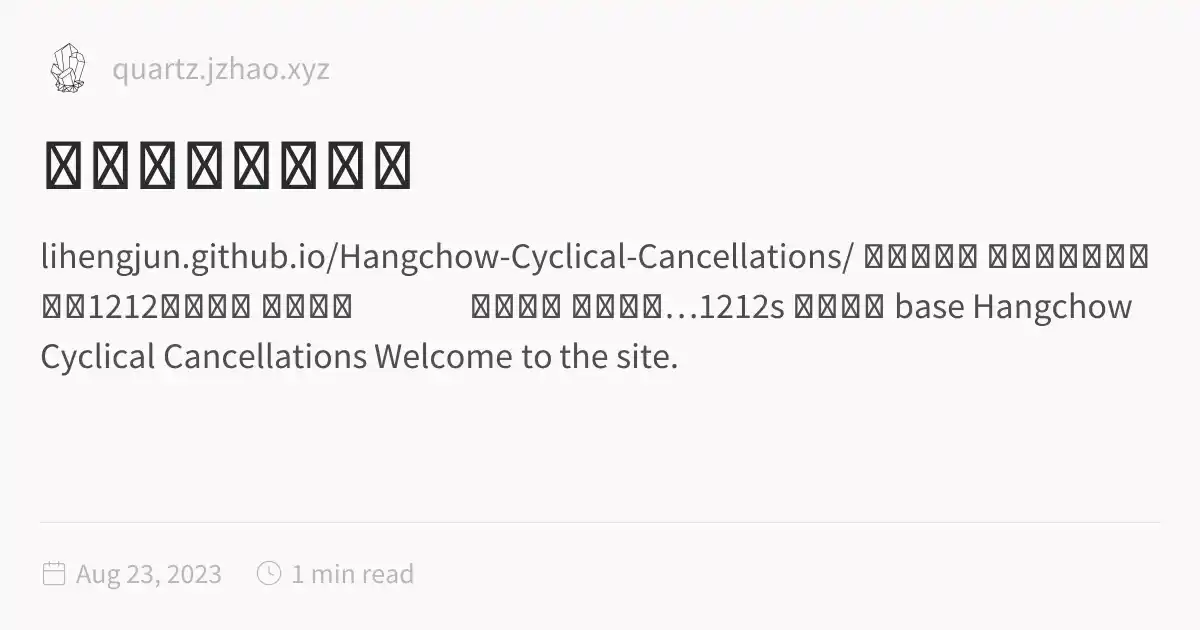
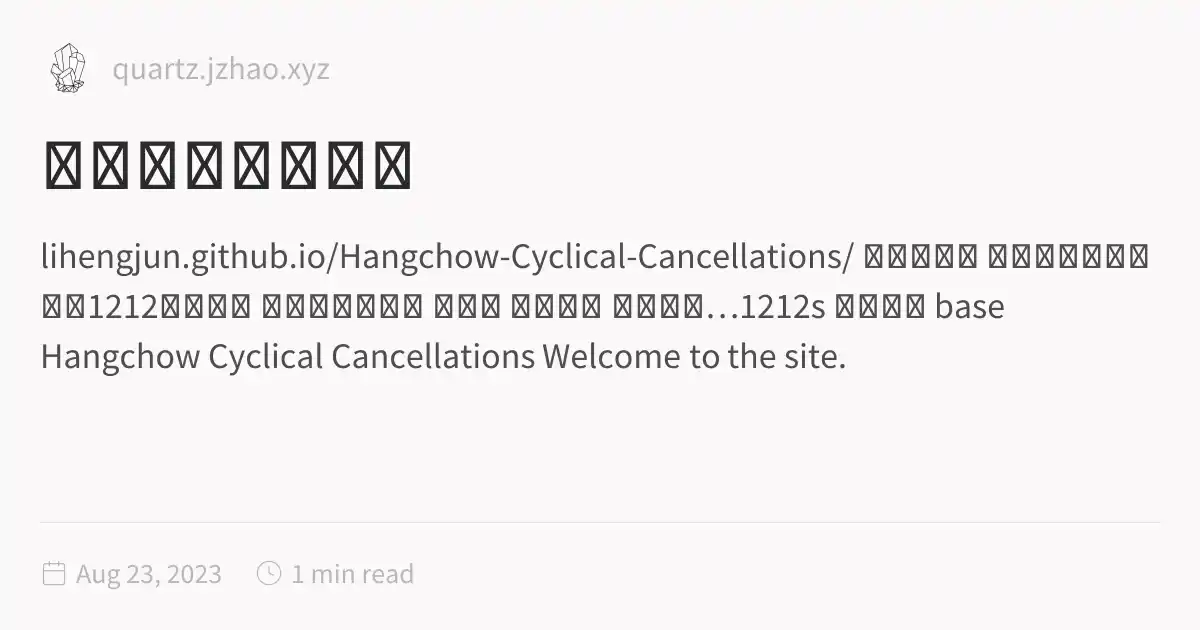
deploy: lihengjun/my-obsidian-vault@a98565e01732b8366b7636af197d75389feca38c

Changed region(s): [[0.0308, 0.5429, 0.7092, 0.6032], [0.2775, 0.4524, 0.9558, 0.5127]]

diff --git a/news/index.html b/news/index.html
@@ -116,6 +116,6 @@ pre:hover > .expand-button {
   padding: 0 12px;
   font-size: 14px;
 }
[2 lines of base64/hex data omitted]
 </script><script type="module">function f(i,e){if(!i)return;function r(o){o.target===this&&(o.preventDefault(),o.stopPropagation(),e())}function t(o){o.key.startsWith("Esc")&&(o.preventDefault(),e())}i?.addEventListener("click",r),window.addCleanup(()=>i?.removeEventListener("click",r)),document.addEventListener("keydown",t),window.addCleanup(()=>document.removeEventListener("keydown",t))}function y(i){for(;i.firstChild;)i.removeChild(i.firstChild)}var h=class{constructor(e,r){this.container=e;this.content=r;this.setupEventListeners(),this.setupNavigationControls(),this.resetTransform()}isDragging=!1;startPan={x:0,y:0};currentPan={x:0,y:0};scale=1;MIN_SCALE=.5;MAX_SCALE=3;cleanups=[];setupEventListeners(){let e=this.onMouseDown.bind(this),r=this.onMouseMove.bind(this),t=this.onMouseUp.bind(this),o=this.resetTransform.bind(this);this.container.addEventListener("mousedown",e),document.addEventListener("mousemove",r),document.addEventListener("mouseup",t),window.addEventListener("resize",o),this.cleanups.push(()=>this.container.removeEventListener("mousedown",e),()=>document.removeEventListener("mousemove",r),()=>document.removeEventListener("mouseup",t),()=>window.removeEventListener("resize",o))}cleanup(){for(let e of this.cleanups)e()}setupNavigationControls(){let e=document.createElement("div");e.className="mermaid-controls";let r=this.createButton("+",()=>this.zoom(.1)),t=this.createButton("-",()=>this.zoom(-.1)),o=this.createButton("Reset",()=>this.resetTransform());e.appendChild(t),e.appendChild(o),e.appendChild(r),this.container.appendChild(e)}createButton(e,r){let t=document.createElement("button");return t.textContent=e,t.className="mermaid-control-button",t.addEventListener("click",r),window.addCleanup(()=>t.removeEventListener("click",r)),t}onMouseDown(e){e.button===0&&(this.isDragging=!0,this.startPan={x:e.clientX-this.currentPan.x,y:e.clientY-this.currentPan.y},this.container.style.cursor="grabbing")}onMouseMove(e){this.isDragging&&(e.preventDefault(),this.currentPan={x:e.clientX-this.startPan.x,y:e.clientY-this.startPan.y},this.updateTransform())}onMouseUp(){this.isDragging=!1,this.container.style.cursor="grab"}zoom(e){let r=Math.min(Math.max(this.scale+e,this.MIN_SCALE),this.MAX_SCALE),t=this.content.getBoundingClientRect(),o=t.width/2,n=t.height/2,c=r-this.scale;this.currentPan.x-=o*c,this.currentPan.y-=n*c,this.scale=r,this.updateTransform()}updateTransform(){this.content.style.transform=`translate(${this.currentPan.x}px, ${this.currentPan.y}px) scale(${this.scale})`}resetTransform(){this.scale=1;let e=this.content.querySelector("svg");this.currentPan={x:e.getBoundingClientRect().width/2,y:e.getBoundingClientRect().height/2},this.updateTransform()}},C=["--secondary","--tertiary","--gray","--light","--lightgray","--highlight","--dark","--darkgray","--codeFont"],E;document.addEventListener("nav",async()=>{let e=document.querySelector(".center").querySelectorAll("code.mermaid");if(e.length===0)return;E||=await import("https://cdnjs.cloudflare.com/ajax/libs/mermaid/11.4.0/mermaid.esm.min.mjs");let r=E.default,t=new WeakMap;for(let n of e)t.set(n,n.innerText);async function o(){for(let s of e){s.removeAttribute("data-processed");let a=t.get(s);a&&(s.innerHTML=a)}let n=C.reduce((s,a)=>(s[a]=window.getComputedStyle(document.documentElement).getPropertyValue(a),s),{}),c=document.documentElement.getAttribute("saved-theme")==="dark";r.initialize({startOnLoad:!1,securityLevel:"loose",theme:c?"dark":"base",themeVariables:{fontFamily:n["--codeFont"],primaryColor:n["--light"],primaryTextColor:n["--darkgray"],primaryBorderColor:n["--tertiary"],lineColor:n["--darkgray"],secondaryColor:n["--secondary"],tertiaryColor:n["--tertiary"],clusterBkg:n["--light"],edgeLabelBackground:n["--highlight"]}}),await r.run({nodes:e})}await o(),document.addEventListener("themechange",o),window.addCleanup(()=>document.removeEventListener("themechange",o));for(let n=0;n<e.length;n++){let v=function(){let g=l.querySelector("#mermaid-space"),m=l.querySelector(".mermaid-content");if(!m)return;y(m);let w=c.querySelector("svg").cloneNode(!0);m.appendChild(w),l.classList.add("active"),g.style.cursor="grab",u=new h(g,m)},M=function(){l.classList.remove("active"),u?.cleanup(),u=null},c=e[n],s=c.parentElement,a=s.querySelector(".clipboard-button"),d=s.querySelector(".expand-button"),p=window.getComputedStyle(a),L=a.offsetWidth+parseFloat(p.marginLeft||"0")+parseFloat(p.marginRight||"0");d.style.right=`calc(${L}px + 0.3rem)`,s.prepend(d);let l=s.querySelector("#mermaid-container");if(!l)return;let u=null;d.addEventListener("click",v),f(l,M),window.addCleanup(()=>{u?.cleanup(),d.removeEventListener("click",v)})}});
 </script><script src="https://cdn.jsdelivr.net/npm/katex@0.16.11/dist/contrib/copy-tex.min.js" type="application/javascript"></script><script src="../postscript.js" type="module"></script></html>

diff --git a/other.html b/other.html
@@ -116,7 +116,7 @@ pre:hover > .expand-button {
   padding: 0 12px;
   font-size: 14px;
 }
[2 lines of base64/hex data omitted]
                 s-3.542,0.634-4.898,1.688l-7.669-7.669C16.785,10.424,17,9.74,17,9c0-2.206-1.794-4-4-4S9,6.794,9,9s1.794,4,4,4
                 c0.74,0,1.424-0.215,2.019-0.567l7.669,7.669C21.634,21.458,21,23.154,21,25s0.634,3.542,1.688,4.897L10.024,42.562
                 C8.958,41.595,7.549,41,6,41c-3.309,0-6,2.691-6,6s2.691,6,6,6s6-2.691,6-6c0-1.035-0.263-2.009-0.726-2.86l12.829-12.829

diff --git a/index.html b/index.html
@@ -1,5 +1,5 @@
 <!DOCTYPE html>
-<html lang="en"><head><title>杭州城幹支戳蓃集</title><meta charset="utf-8"/><link rel="preconnect" href="https://fonts.googleapis.com"/><link rel="preconnect" href="https://fonts.gstatic.com"/><link rel="stylesheet" href="https://fonts.googleapis.com/css2?family=Schibsted Grotesk:wght@400;700&amp;family=Source Sans Pro:ital,wght@0,400;0,600;1,400;1,600&amp;family=IBM Plex Mono:wght@400;600&amp;display=swap"/><link rel="preconnect" href="https://cdnjs.cloudflare.com" crossorigin="anonymous"/><meta name="viewport" content="width=device-width, initial-scale=1.0"/><meta name="og:site_name" content="Quartz 4"/><meta property="og:title" content="杭州城幹支戳蓃集"/><meta property="og:type" content="website"/><meta name="twitter:card" content="summary_large_image"/><meta name="twitter:title" content="杭州城幹支戳蓃集"/><meta name="twitter:description" content="lihengjun.github.io/Hangchow-Cyclical-Cancellations/ 天涯浮生录 哈哈哈哈哈哈哈哈哈1212手机编辑 立马删除！！！ 内容标题 你的内容…1212s 编辑内容 base Hangchow Cyclical Cancellations Welcome to the site."/><meta property="og:description" content="lihengjun.github.io/Hangchow-Cyclical-Cancellations/ 天涯浮生录 哈哈哈哈哈哈哈哈哈1212手机编辑 立马删除！！！ 内容标题 你的内容…1212s 编辑内容 base Hangchow Cyclical Cancellations Welcome to the site."/><meta property="og:image:alt" content="lihengjun.github.io/Hangchow-Cyclical-Cancellations/ 天涯浮生录 哈哈哈哈哈哈哈哈哈1212手机编辑 立马删除！！！ 内容标题 你的内容…1212s 编辑内容 base Hangchow Cyclical Cancellations Welcome to the site."/><meta property="twitter:domain" content="quartz.jzhao.xyz"/><meta property="og:url" content="https://quartz.jzhao.xyz/index"/><meta property="twitter:url" content="https://quartz.jzhao.xyz/index"/><link rel="icon" href="./static/icon.png"/><meta name="description" content="lihengjun.github.io/Hangchow-Cyclical-Cancellations/ 天涯浮生录 哈哈哈哈哈哈哈哈哈1212手机编辑 立马删除！！！ 内容标题 你的内容…1212s 编辑内容 base Hangchow Cyclical Cancellations Welcome to the site."/><meta name="generator" content="Quartz"/><link href="./index.css" rel="stylesheet" type="text/css" spa-preserve/><style>.expand-button {
+<html lang="en"><head><title>杭州城幹支戳蓃集</title><meta charset="utf-8"/><link rel="preconnect" href="https://fonts.googleapis.com"/><link rel="preconnect" href="https://fonts.gstatic.com"/><link rel="stylesheet" href="https://fonts.googleapis.com/css2?family=Schibsted Grotesk:wght@400;700&amp;family=Source Sans Pro:ital,wght@0,400;0,600;1,400;1,600&amp;family=IBM Plex Mono:wght@400;600&amp;display=swap"/><link rel="preconnect" href="https://cdnjs.cloudflare.com" crossorigin="anonymous"/><meta name="viewport" content="width=device-width, initial-scale=1.0"/><meta name="og:site_name" content="Quartz 4"/><meta property="og:title" content="杭州城幹支戳蓃集"/><meta property="og:type" content="website"/><meta name="twitter:card" content="summary_large_image"/><meta name="twitter:title" content="杭州城幹支戳蓃集"/><meta name="twitter:description" content="lihengjun.github.io/Hangchow-Cyclical-Cancellations/ 天涯浮生录 哈哈哈哈哈哈哈哈哈1212手机编辑 立马删除！！！ 哦吼？ 内容标题 你的内容…1212s 编辑内容 base Hangchow Cyclical Cancellations Welcome to the site."/><meta property="og:description" content="lihengjun.github.io/Hangchow-Cyclical-Cancellations/ 天涯浮生录 哈哈哈哈哈哈哈哈哈1212手机编辑 立马删除！！！ 哦吼？ 内容标题 你的内容…1212s 编辑内容 base Hangchow Cyclical Cancellations Welcome to the site."/><meta property="og:image:alt" content="lihengjun.github.io/Hangchow-Cyclical-Cancellations/ 天涯浮生录 哈哈哈哈哈哈哈哈哈1212手机编辑 立马删除！！！ 哦吼？ 内容标题 你的内容…1212s 编辑内容 base Hangchow Cyclical Cancellations Welcome to the site."/><meta property="twitter:domain" content="quartz.jzhao.xyz"/><meta property="og:url" content="https://quartz.jzhao.xyz/index"/><meta property="twitter:url" content="https://quartz.jzhao.xyz/index"/><link rel="icon" href="./static/icon.png"/><meta name="description" content="lihengjun.github.io/Hangchow-Cyclical-Cancellations/ 天涯浮生录 哈哈哈哈哈哈哈哈哈1212手机编辑 立马删除！！！ 哦吼？ 内容标题 你的内容…1212s 编辑内容 base Hangchow Cyclical Cancellations Welcome to the site."/><meta name="generator" content="Quartz"/><link href="./index.css" rel="stylesheet" type="text/css" spa-preserve/><style>.expand-button {
   position: absolute;
   display: flex;
   float: right;
@@ -120,6 +120,7 @@ pre:hover > .expand-button {
 <p>天涯浮生录</p>
 <p>哈哈哈哈哈哈哈哈哈1212手机编辑</p>
 <p>立马删除！！！</p>
+<p>哦吼？</p>
 <h1 id="内容标题">内容标题<a role="anchor" aria-hidden="true" tabindex="-1" data-no-popover="true" href="#内容标题" class="internal"><svg width="18" height="18" viewBox="0 0 24 24" fill="none" stroke="currentColor" stroke-width="2" stroke-linecap="round" stroke-linejoin="round"><path d="M10 13a5 5 0 0 0 7.54.54l3-3a5 5 0 0 0-7.07-7.07l-1.72 1.71"></path><path d="M14 11a5 5 0 0 0-7.54-.54l-3 3a5 5 0 0 0 7.07 7.07l1.71-1.71"></path></svg></a></h1>
 <p>你的内容…1212s</p>
 <p>编辑内容</p>
